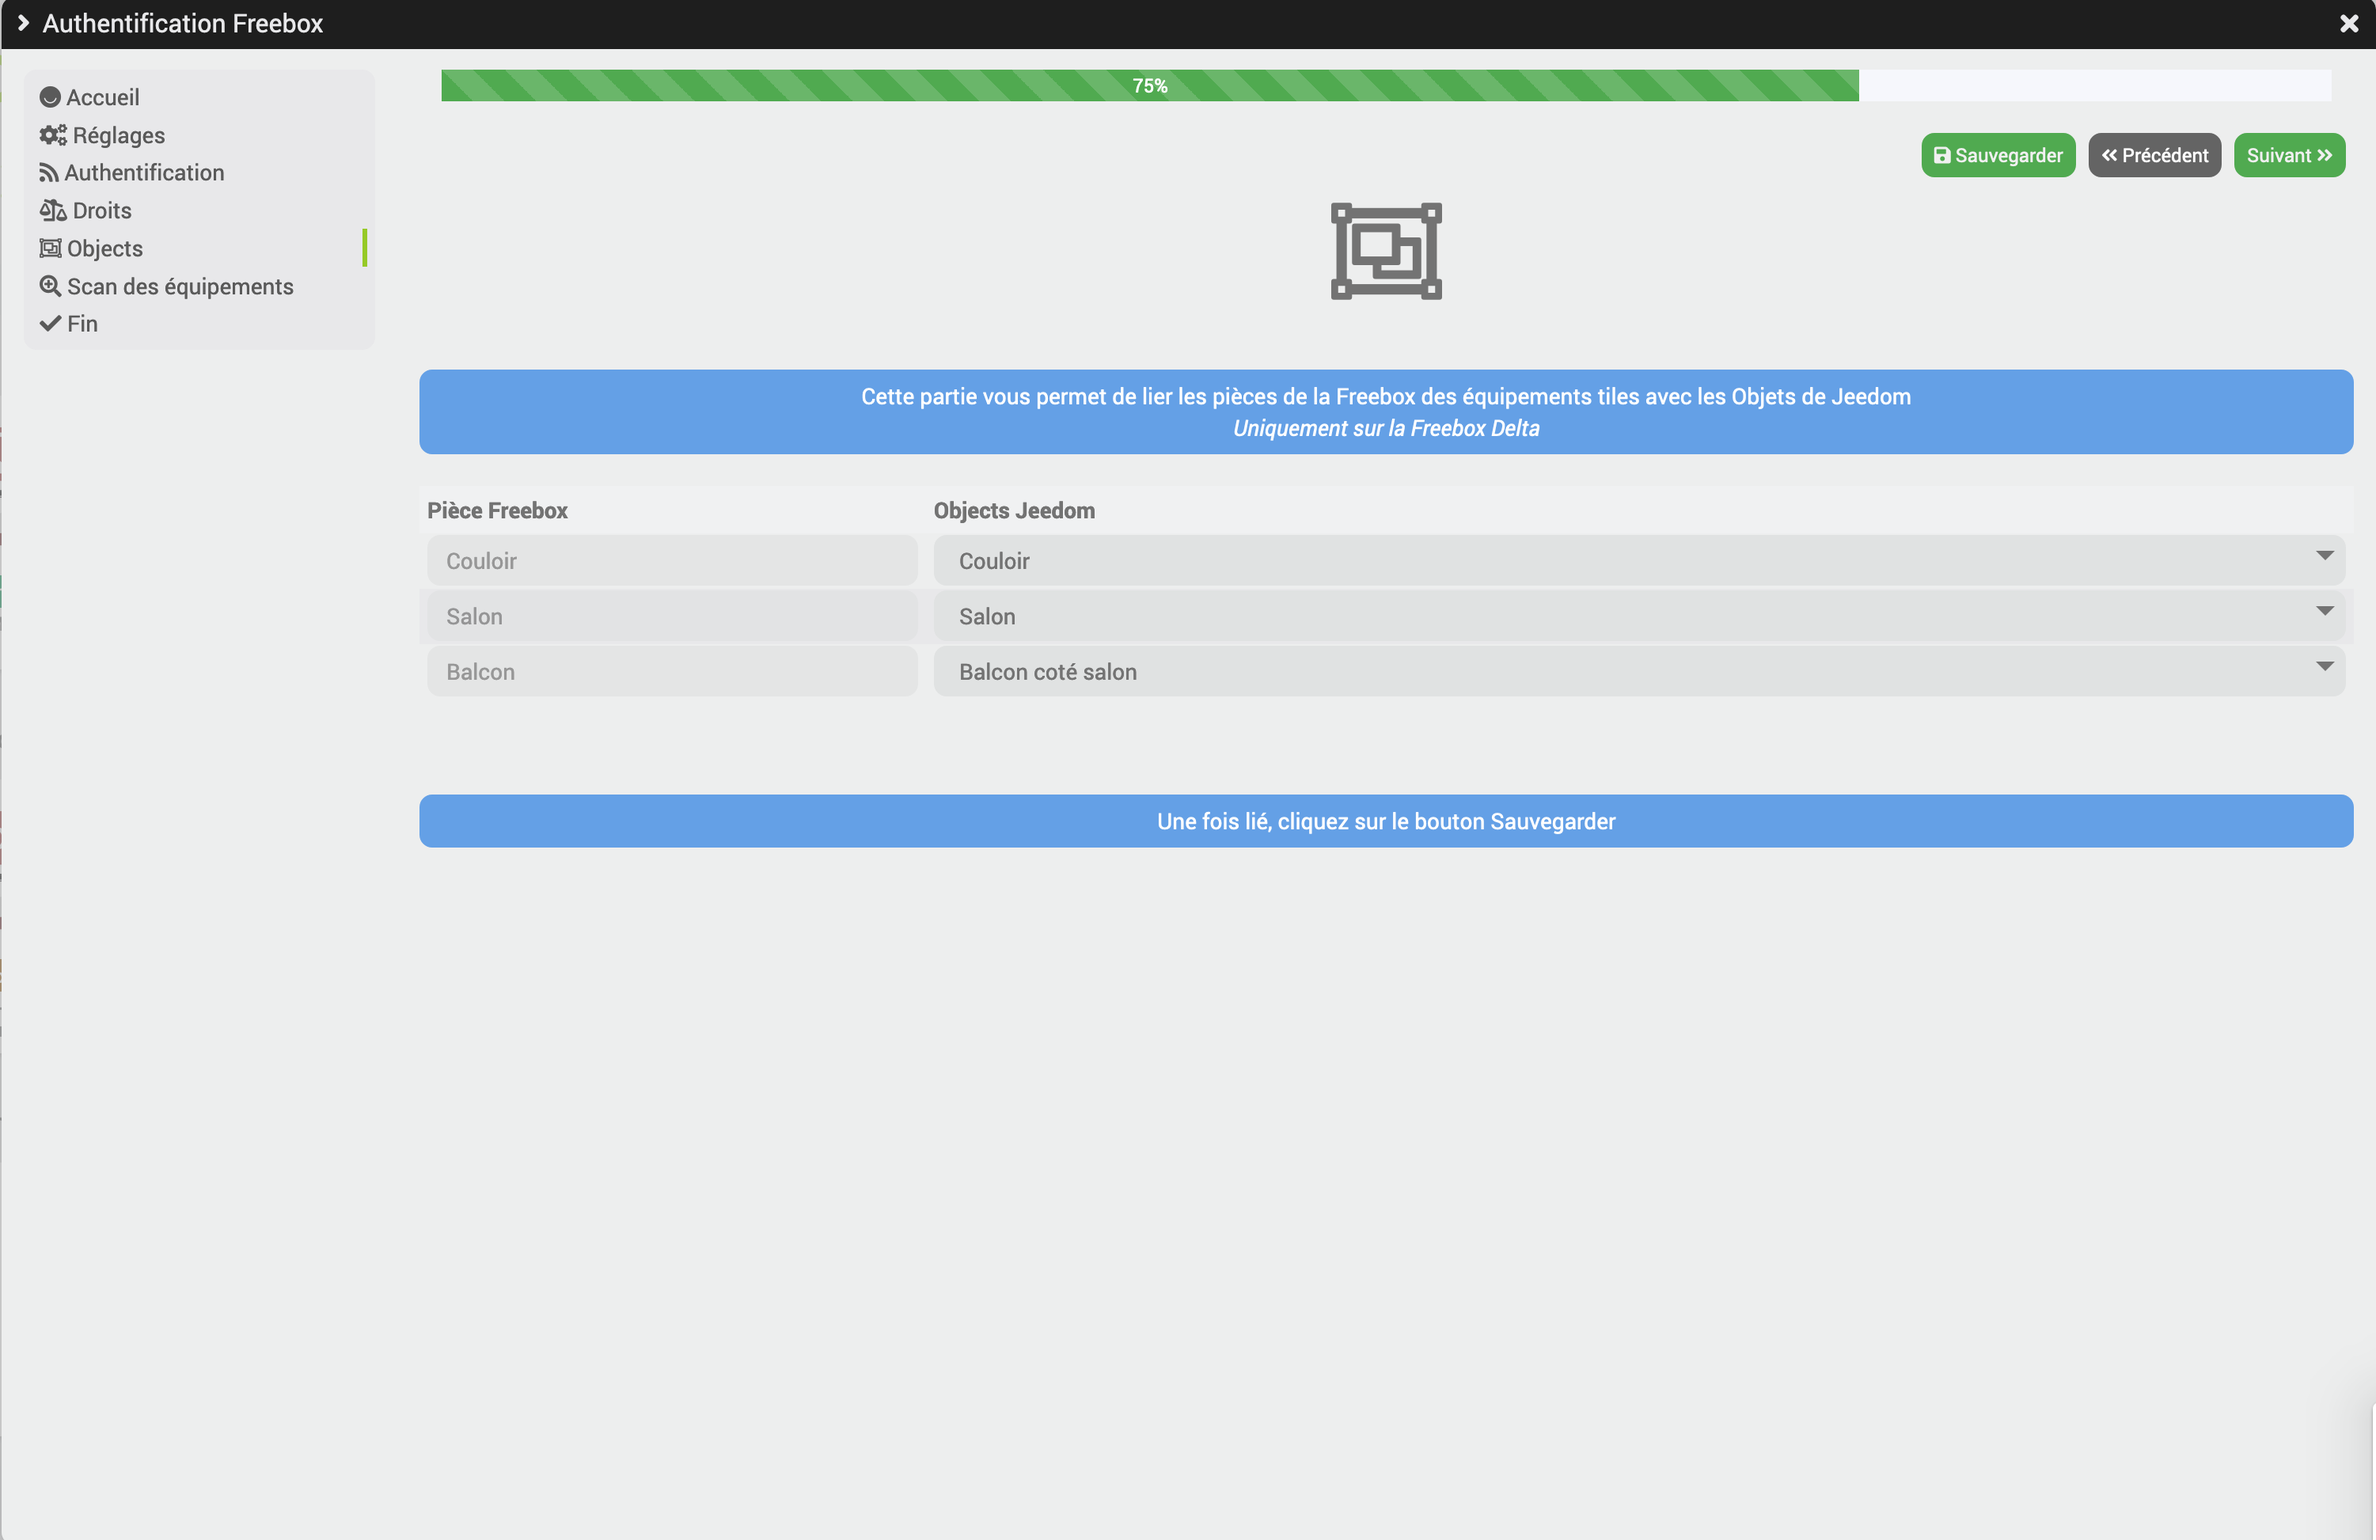
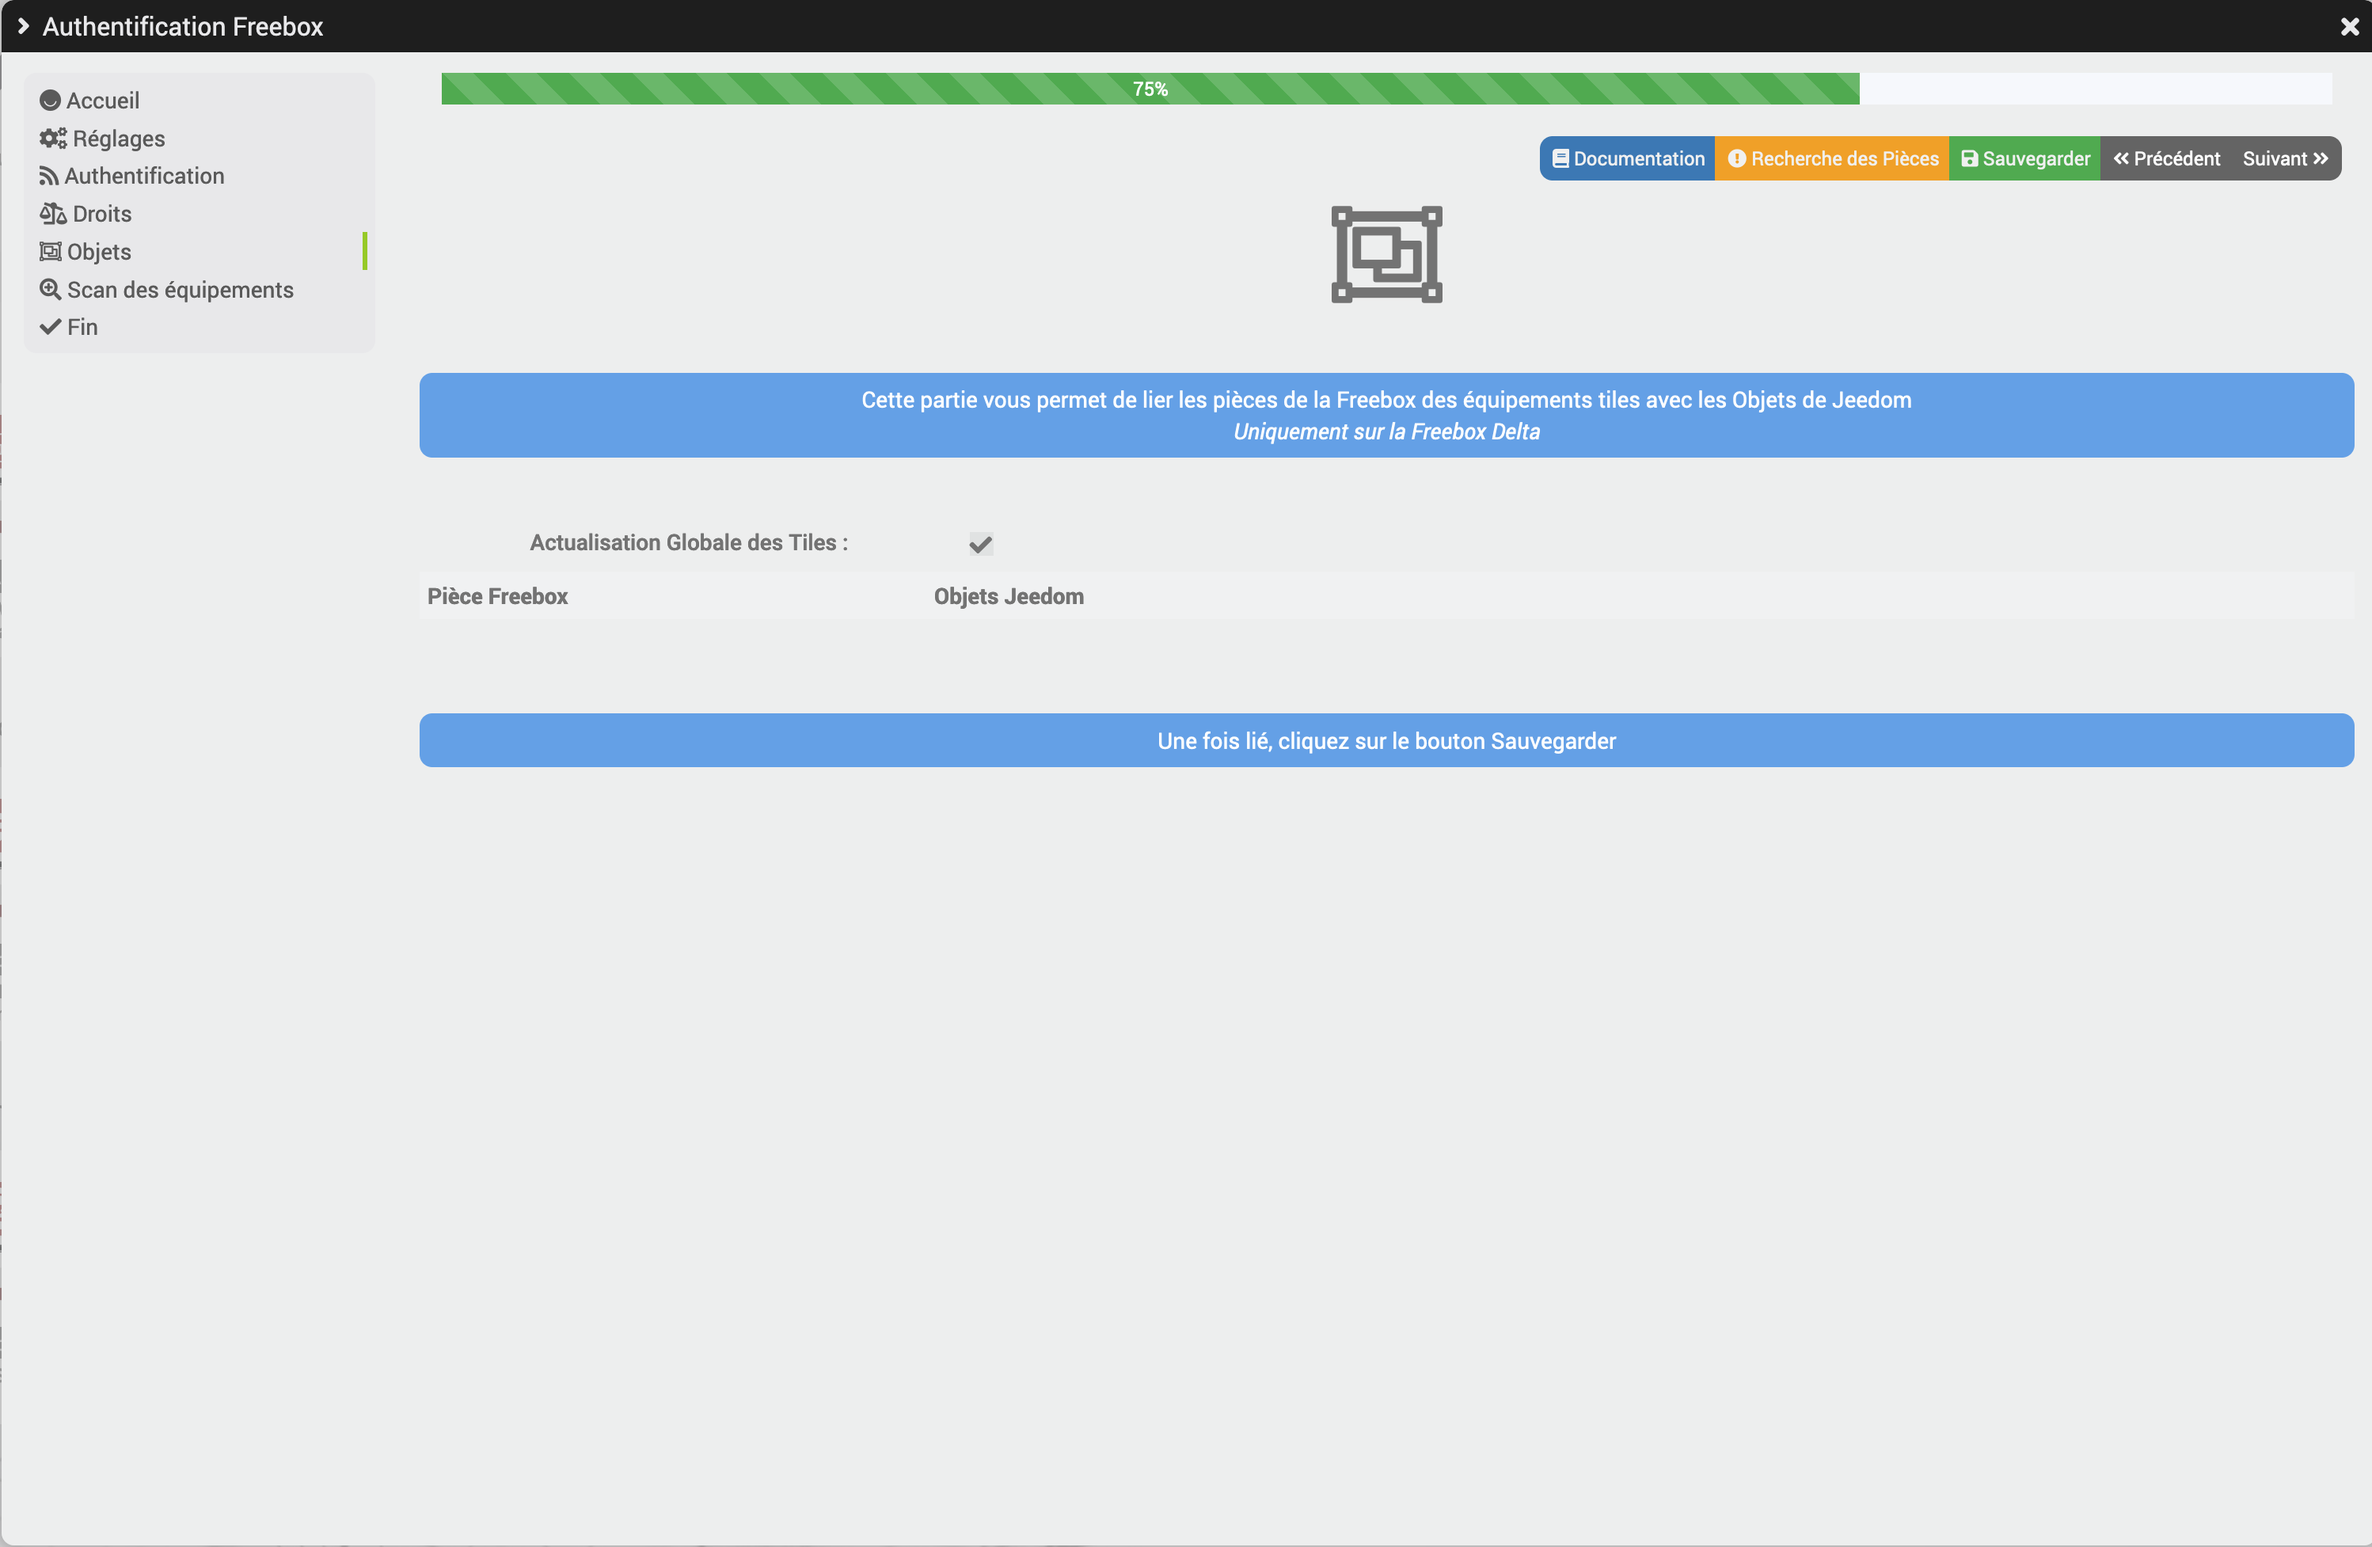
Typo changelog + docs

diff --git a/Freebox_OS/fr_FR/index.md b/Freebox_OS/fr_FR/index.md
@@ -84,6 +84,7 @@ Dans la fenêtre ci-dessous, Le système va contrôler les droits qui sont attri
 ## Lier les pièces Freebox avec les Objets Jeedom
 
 > Cette fenêtre n'apparait uniquement que si la Freebox est une DELTA
+> Il est possible d'activer ou désactiver le cron "Actualisation Globale des Tiles"
 
 <p><img src="../images/Freebox_OS_screenshot6.png" alt="Authentification 4" width="300" /></p>
 
@@ -139,10 +140,7 @@ Les équipements et les commandes suivants vont être créés :
 - **Disque Dur**
   - Occupation du disque
 - **Freebox Débits**
-  - Freebox rate down
-  - Freebox rate up
-  - Freebox bandwidth up
-  - Freebox bandwidth down
+  - Freebox rate down, rate up, bandwidth up, bandwidth down
   - Freebox media
   - Freebox state
 - **Player**
@@ -157,10 +155,8 @@ Les équipements et les commandes suivants vont être créés :
     > Il faut absolument que le player soit sous tension et pas en veille prolongée. (Révolution)
     > Les Player mini4K ne sont pas compatibles, les players POP ne sont pas encore compatibles.
 - **Partage Windows - Mac**
-  - Activer / Désactiver le Partage de fichiers Mac
-  - Activer / Désactiver le Partage de fichiers Windows
-  - Activer / Désactiver le Partage Imprimante
-  - Activer / Désactiver Partage FTP
+  - Activer / Désactiver le Partage de fichiers Mac, Windows, FTP
+  - Activer / Désactiver le Partage Imprimante (disponible uniquement si SMBv2 n'est pas actif)
 - **Système**
   - Update
   - Reboot
@@ -177,23 +173,17 @@ Les équipements et les commandes suivants vont être créés :
   - Liste Appels Manqués / Reçus / Passés
 - **Téléchargements**
   - Nombre de tâches
-  - Nombre de tâches actives
-  - Nombre de tâches en extraction
-  - Nombre de tâches en réparation
-  - Nombre de tâches en vérification
-  - Nombre de tâches en attente
-  - Nombre de tâches en erreur
-  - Nombre de tâches stoppées
-  - Nombre de tâches terminées
+  - Nombre de tâches actives, en extraction, en réparation, en vérification, en attente, en erreur, stoppées, terminées
   - Téléchargement en cours
-  - Vitesse réception
-  - Vitesse émission
-  - Start DL
-  - Stop DL
+  - Vitesse réception, émission
+  - Start, Stop
+- **VM** (uniquement pour les freebox compatible)
+  - Statut
+  - Action possible : Stop, Redémarrer, Start
+  - info : Nb de CPU, Adresse Mac, Mémoire, Port USB, Ecran Virtuel, Type de Disque
 - **Wifi**
   - Statut du wifi
-  - Wifi On
-  - Wifi Off
+  - Wifi On Off
   - Gestion du filtrage des appels
 
 # Spécificité de Home Adapters (Uniquement Freebox Delta), Appareils connectés, Disque Dur et système

diff --git a/Freebox_OS/fr_FR/changelog.md b/Freebox_OS/fr_FR/changelog.md
@@ -37,7 +37,6 @@ pluginId: Freebox_OS
   - Amélioration Démon
   - Ajout Cron pour les actions pour palier a la lenteur de la Freebox (merci @Nebz et @Foulek57)
   - Amélioration Cron refresh Token
-  - Ajout Cron refresh global pour la partie domotique
 
 - **Amélioration suite Firmware Freebox 4.3**
 
@@ -57,21 +56,23 @@ pluginId: Freebox_OS
 
     - Ajout équipement (Etat, Start, Stop, Redémarrer et d'autres infos)
 
-  - **Partage Windows/mac**
+  - **Partage Windows/Mac**
     - Possibilité d'activer SMBv2
       > si SMBv2 actif, les commandes de partage d'imprimante seront supprimées lors de la prochaine mise à jour de l'équipement.
+      >
       > Attention si vous activez cette fonction, les sauvegardes jeedom peuvent ne plus fonctionner si vous sauvegarder sur la freebox
 
 **Tiles**
 
-- Ajout Cron pour l'actualisation de l'ensemble des équipements (merci @Nebz et @Foulek57)
+- Ajout Cron refresh global pour la partie domotique (merci @Nebz et @Foulek57)
 - Correction Bug création des caméras
-  > **Attention Il est possible que les caméras soient créee en double**
+  > **Attention Il est possible que les caméras soient créee en double dans le plugin Camera**
 - Correction Bug création des Prises
 - Ajout Icône pour les équipement (merci @Skillix)
 - Amélioration gestion des différents types de volet
   > - Ajout Toggle pour certain types de volet
   > - Correction bug sur invertion des commandes numériques
+  >   [Voir le fil d'actualité du plugin sur communauty](https://community.jeedom.com/t/info-plugin-freebox-mise-a-jour-des-composants-de-la-delta-tiles-systeme/30673/54?u=jag)
 
 > **Pour l'ensemble des nouveautés ci-dessus, il faut lancer l'ensemble des scans**
 
